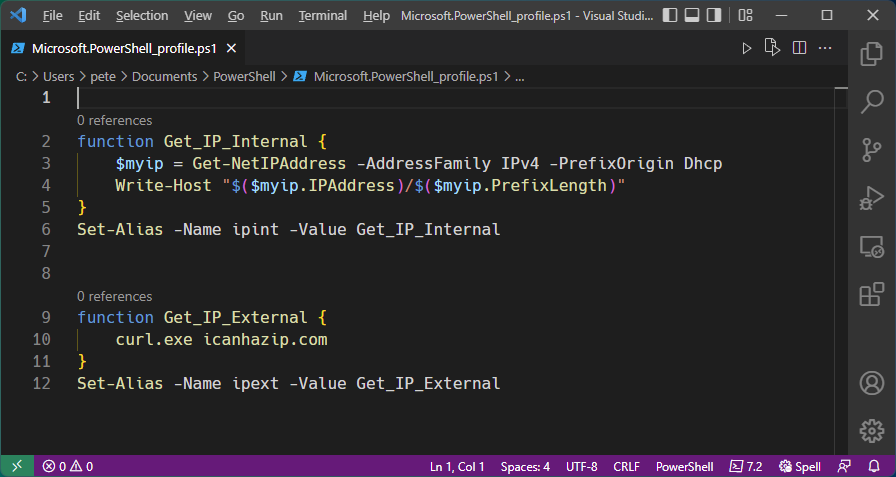
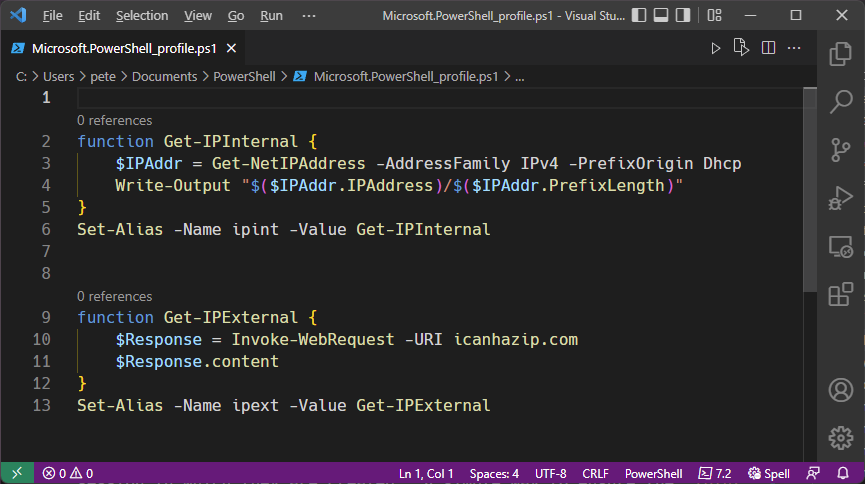
Alias blog - improved PowerShell

diff --git a/public/posts/alias-ipaddress/index.html b/public/posts/alias-ipaddress/index.html
@@ -112,7 +112,7 @@
     },
     "headline": "Use An Alias To Quickly Find Your IP Address - Windows \u0026 Linux | upyesp","datePublished": "2022-03-31T11:37:01+00:00",
     "dateModified": "2022-03-31T11:37:01+00:00",
-    "wordCount":  1110 ,
+    "wordCount":  1122 ,
     "publisher": {
         "@type": "Person",
         "name": "upyesp",
@@ -276,7 +276,7 @@
         <div class="content">
             <p>Here&rsquo;s how to create Alias commands to simplify tasks on the command line.  The examples given relate to retrieving IP addresses.  The process is shown for Linux using Bash and Windows using PowerShell.</p>
 <p><img src="/images/AliasIP.png" alt="screenshot of a terminal running Linux with the Bash shell.  The user has entered the command &amp;ldquo;ipext&amp;rdquo; and the external IP address has been returned" title="Using an Alias to return the external IP address"></p>
-<h2 id="definitions---internal--external-ip-address">Definitions - Internal &amp; External IP Address</h2>
+<h2 id="definitions---internal--external-ip-addresses">Definitions - &ldquo;Internal&rdquo; &amp; &ldquo;External&rdquo; IP Addresses</h2>
 <p>Your computer has an IP address on the LAN it is connected to. This blog post will refer to that address as the <em>internal IP address</em>, typical examples being&hellip; <code>192.168.1.12/24</code> at home or <code>10.23.8.7/20</code> on a corporate network.</p>
 <p>Your computer also has an IP address as seen by devices from external to the LAN, for example by servers on the internet.  This blog post will refer to that address as the <em>external IP address</em>, for example <code>123.44.23.87</code>. If you open a browser and Google &ldquo;whats my ip&rdquo;, you will find yours.</p>
 <p><a href="#windows">Jump to Windows Method</a></p>
@@ -312,7 +312,7 @@
 <p>In order to find the external IP address, a service beyond the LAN needs to be called, such as a server on the internet. Many services exist, this example uses <code>icanhazip.com</code>.  This can be changed to your own preferred service.</p>
 <div class="highlight"><pre tabindex="0" style="color:#93a1a1;background-color:#002b36;-moz-tab-size:4;-o-tab-size:4;tab-size:4;"><code class="language-zsh" data-lang="zsh"><span style="display:flex;"><span>curl icanhazip.com
 </span></span></code></pre></div><h3 id="creating-aliases-for-the-bash-commands">Creating Aliases For The Bash Commands</h3>
-<p>When creating an Alias for the above commands certain characters, such as <code>&quot;</code> and <code>$</code> must be be escaped for the command string to be parsed successfully. This can be achieved by inserting a <code>\</code> character before them. So the Alias commands are:</p>
+<p>When creating an Alias for the above commands certain characters, such as embedded <code>&quot;</code> and <code>$</code> must be be escaped for the <code>Alias</code> command string to be parsed successfully. This can be achieved by inserting a <code>\</code> character before, to escape them. So the Alias commands are:</p>
 <div class="highlight"><pre tabindex="0" style="color:#93a1a1;background-color:#002b36;-moz-tab-size:4;-o-tab-size:4;tab-size:4;"><code class="language-zsh" data-lang="zsh"><span style="display:flex;"><span><span style="color:#586e75">#this version returns the address + CIDR/subnet suffix e.g. xxx.xxx.xxx.xxx/xx</span>
 </span></span><span style="display:flex;"><span><span style="color:#b58900">alias</span> <span style="color:#268bd2">ipint</span><span style="color:#719e07">=</span><span style="color:#2aa198">&#34;ip addr | awk &#39;\$1==\&#34;inet\&#34; &amp;&amp; \$3!=\&#34;scope\&#34; {print \$2}&#39; &#34;</span>
 </span></span><span style="display:flex;"><span><span style="color:#586e75">#this version returns the address only e.g. xxx.xxx.xxx.xxx</span>
@@ -341,17 +341,18 @@
 <li>Done! You can now use the newly created aliases <code>ipint</code> and <code>ipext</code> to return IP addresses in a PowerShell terminal session.</li>
 </ol>
 </blockquote>
-<div class="highlight"><pre tabindex="0" style="color:#93a1a1;background-color:#002b36;-moz-tab-size:4;-o-tab-size:4;tab-size:4;"><code class="language-powershell" data-lang="powershell"><span style="display:flex;"><span><span style="color:#719e07">function</span> Get_IP_Internal { 
-</span></span><span style="display:flex;"><span>    <span style="color:#268bd2">$myip</span> = <span style="color:#b58900">Get-NetIPAddress</span> -AddressFamily IPv4 -PrefixOrigin Dhcp
-</span></span><span style="display:flex;"><span>    <span style="color:#b58900">Write-Host</span> <span style="color:#2aa198">&#34;</span>$(<span style="color:#268bd2">$myip</span>.IPAddress)<span style="color:#2aa198">/</span>$(<span style="color:#268bd2">$myip</span>.PrefixLength)<span style="color:#2aa198">&#34;</span>
+<div class="highlight"><pre tabindex="0" style="color:#93a1a1;background-color:#002b36;-moz-tab-size:4;-o-tab-size:4;tab-size:4;"><code class="language-powershell" data-lang="powershell"><span style="display:flex;"><span><span style="color:#719e07">function</span> <span style="color:#b58900">Get-IPInternal</span> { 
+</span></span><span style="display:flex;"><span>    <span style="color:#268bd2">$IPAddr</span> = <span style="color:#b58900">Get-NetIPAddress</span> -AddressFamily IPv4 -PrefixOrigin Dhcp
+</span></span><span style="display:flex;"><span>    <span style="color:#b58900">Write-Output</span> <span style="color:#2aa198">&#34;</span>$(<span style="color:#268bd2">$IPAddr</span>.IPAddress)<span style="color:#2aa198">/</span>$(<span style="color:#268bd2">$IPAddr</span>.PrefixLength)<span style="color:#2aa198">&#34;</span>
 </span></span><span style="display:flex;"><span>}
-</span></span><span style="display:flex;"><span><span style="color:#b58900">Set-Alias</span> -Name ipint -Value Get_IP_Internal
+</span></span><span style="display:flex;"><span><span style="color:#b58900">Set-Alias</span> -Name ipint -Value <span style="color:#b58900">Get-IPInternal</span>
 </span></span><span style="display:flex;"><span>
 </span></span><span style="display:flex;"><span>
-</span></span><span style="display:flex;"><span><span style="color:#719e07">function</span> Get_IP_External {
-</span></span><span style="display:flex;"><span>    curl.exe icanhazip.com
+</span></span><span style="display:flex;"><span><span style="color:#719e07">function</span> <span style="color:#b58900">Get-IPExternal</span> {
+</span></span><span style="display:flex;"><span>    <span style="color:#268bd2">$Response</span> = <span style="color:#b58900">Invoke-WebRequest</span> -URI icanhazip.com
+</span></span><span style="display:flex;"><span>    <span style="color:#268bd2">$Response</span>.content
 </span></span><span style="display:flex;"><span>}
-</span></span><span style="display:flex;"><span><span style="color:#b58900">Set-Alias</span> -Name ipext -Value Get_IP_External
+</span></span><span style="display:flex;"><span><span style="color:#b58900">Set-Alias</span> -Name ipext -Value <span style="color:#b58900">Get-IPExternal</span>
 </span></span></code></pre></div><h3 id="how-to-retrieve-ip-addresses-using-powershell">How To Retrieve IP Addresses Using PowerShell</h3>
 <h4 id="aliases--functions">Aliases &amp; Functions</h4>
 <p>So far this blog post has talked about Aliases.  These are supported in PowerShell, though they are implemented differently than Linux.  There is a restriction regarding <a href="https://docs.microsoft.com/en-us/powershell/module/microsoft.powershell.utility/set-alias?view=powershell-7.2">Alias parameters and passing values</a> - see &ldquo;Example 5&rdquo;. As shown in that example, this can be easily overcome by creating a <a href="https://docs.microsoft.com/en-us/powershell/scripting/learn/ps101/09-functions?view=powershell-7.2">Function</a> and setting an Alias to it.</p>
@@ -371,17 +372,18 @@
 </span></span><span style="display:flex;"><span>
 </span></span><span style="display:flex;"><span>(<span style="color:#b58900">Get-NetIPAddress</span> -AddressFamily IPv4 -PrefixOrigin Dhcp | <span style="color:#b58900">Format-Wide</span> -Property IPAddress | <span style="color:#b58900">Out-String</span>).Trim()
 </span></span></code></pre></div><p>This is the version I settled on.  It provides the IPv4 address, along with the CIDR suffix.  Also, the output exactly matches the Linux version above.</p>
-<div class="highlight"><pre tabindex="0" style="color:#93a1a1;background-color:#002b36;-moz-tab-size:4;-o-tab-size:4;tab-size:4;"><code class="language-powershell" data-lang="powershell"><span style="display:flex;"><span><span style="color:#719e07">function</span> Get_IP_Internal { 
-</span></span><span style="display:flex;"><span>    <span style="color:#268bd2">$myip</span> = <span style="color:#b58900">Get-NetIPAddress</span> -AddressFamily IPv4 -PrefixOrigin Dhcp
-</span></span><span style="display:flex;"><span>    <span style="color:#b58900">Write-Host</span> <span style="color:#2aa198">&#34;</span>$(<span style="color:#268bd2">$myip</span>.IPAddress)<span style="color:#2aa198">/</span>$(<span style="color:#268bd2">$myip</span>.PrefixLength)<span style="color:#2aa198">&#34;</span>
+<div class="highlight"><pre tabindex="0" style="color:#93a1a1;background-color:#002b36;-moz-tab-size:4;-o-tab-size:4;tab-size:4;"><code class="language-powershell" data-lang="powershell"><span style="display:flex;"><span><span style="color:#719e07">function</span> <span style="color:#b58900">Get-IPInternal</span> { 
+</span></span><span style="display:flex;"><span>    <span style="color:#268bd2">$IPAddr</span> = <span style="color:#b58900">Get-NetIPAddress</span> -AddressFamily IPv4 -PrefixOrigin Dhcp
+</span></span><span style="display:flex;"><span>    <span style="color:#b58900">Write-Output</span> <span style="color:#2aa198">&#34;</span>$(<span style="color:#268bd2">$IPAddr</span>.IPAddress)<span style="color:#2aa198">/</span>$(<span style="color:#268bd2">$IPAddr</span>.PrefixLength)<span style="color:#2aa198">&#34;</span>
 </span></span><span style="display:flex;"><span>}
-</span></span><span style="display:flex;"><span><span style="color:#b58900">Set-Alias</span> -Name ipint -Value Get_IP_Internal
+</span></span><span style="display:flex;"><span><span style="color:#b58900">Set-Alias</span> -Name ipint -Value <span style="color:#b58900">Get-IPInternal</span>
 </span></span></code></pre></div><h4 id="external-ip-address">External IP Address</h4>
 <p>As with Linux, in order to find the external IP address, a service beyond the LAN needs to be called, such as a server on the internet. Many services exist, this example uses <code>icanhazip.com</code>.  This can be changed to your own preferred service.</p>
-<div class="highlight"><pre tabindex="0" style="color:#93a1a1;background-color:#002b36;-moz-tab-size:4;-o-tab-size:4;tab-size:4;"><code class="language-powershell" data-lang="powershell"><span style="display:flex;"><span><span style="color:#719e07">function</span> Get_IP_External {
-</span></span><span style="display:flex;"><span>    curl.exe icanhazip.com
+<div class="highlight"><pre tabindex="0" style="color:#93a1a1;background-color:#002b36;-moz-tab-size:4;-o-tab-size:4;tab-size:4;"><code class="language-powershell" data-lang="powershell"><span style="display:flex;"><span><span style="color:#719e07">function</span> <span style="color:#b58900">Get-IPExternal</span> {
+</span></span><span style="display:flex;"><span>    <span style="color:#268bd2">$Response</span> = <span style="color:#b58900">Invoke-WebRequest</span> -URI icanhazip.com
+</span></span><span style="display:flex;"><span>    <span style="color:#268bd2">$Response</span>.content
 </span></span><span style="display:flex;"><span>}
-</span></span><span style="display:flex;"><span><span style="color:#b58900">Set-Alias</span> -Name ipext -Value Get_IP_External
+</span></span><span style="display:flex;"><span><span style="color:#b58900">Set-Alias</span> -Name ipext -Value <span style="color:#b58900">Get-IPExternal</span>
 </span></span></code></pre></div><h3 id="adding-aliases-to-the-profile-file">Adding Aliases To The $PROFILE File</h3>
 <p>As with Linux, Aliases in PowerShell typically only exist in the session in which they are created.  A simple way to ensure the <code>ipint</code> and <code>ipext</code> persist in PowerShell sessions is to add their definition to the $PROFILE file.  This can be edited with an editor, such as <code>notepad</code> or <code>VS Code</code>, like this:</p>
 <div class="highlight"><pre tabindex="0" style="color:#93a1a1;background-color:#002b36;-moz-tab-size:4;-o-tab-size:4;tab-size:4;"><code class="language-powershell" data-lang="powershell"><span style="display:flex;"><span>notepad <span style="color:#268bd2">$PROFILE</span>
@@ -436,7 +438,7 @@
 <div class="sticky-toc hidden lg:block px-6 pb-6 ">
     <nav id="TableOfContents">
   <ul>
-    <li><a href="#definitions---internal--external-ip-address">Definitions - Internal &amp; External IP Address</a></li>
+    <li><a href="#definitions---internal--external-ip-addresses">Definitions - &ldquo;Internal&rdquo; &amp; &ldquo;External&rdquo; IP Addresses</a></li>
     <li><a href="#linux">Linux: Creating Aliases In Bash To Return The Internal &amp; External IP Address</a>
       <ul>
         <li><a href="#how-to-retrieve-ip-addresses-using-bash">How To Retrieve IP Addresses Using Bash</a>

diff --git a/content/posts/alias-ipaddress.md b/content/posts/alias-ipaddress.md
@@ -15,7 +15,7 @@ Here's how to create Alias commands to simplify tasks on the command line.  The 
 
 ![screenshot of a terminal running Linux with the Bash shell.  The user has entered the command "ipext" and the external IP address has been returned](/images/AliasIP.png "Using an Alias to return the external IP address")
 
-## Definitions - Internal & External IP Address
+## Definitions - "Internal" & "External" IP Addresses
 
 Your computer has an IP address on the LAN it is connected to. This blog post will refer to that address as the _internal IP address_, typical examples being... `192.168.1.12/24` at home or `10.23.8.7/20` on a corporate network.
 
@@ -69,7 +69,7 @@ curl icanhazip.com
 
 ### Creating Aliases For The Bash Commands
 
-When creating an Alias for the above commands certain characters, such as `"` and `$` must be be escaped for the command string to be parsed successfully. This can be achieved by inserting a `\` character before them. So the Alias commands are:
+When creating an Alias for the above commands certain characters, such as embedded `"` and `$` must be be escaped for the `Alias` command string to be parsed successfully. This can be achieved by inserting a `\` character before, to escape them. So the Alias commands are:
 
 ```zsh
 #this version returns the address + CIDR/subnet suffix e.g. xxx.xxx.xxx.xxx/xx
@@ -112,17 +112,18 @@ That's it, done.  Use the newly created aliases `ipint` and `ipext` to return IP
 > 1. Done! You can now use the newly created aliases `ipint` and `ipext` to return IP addresses in a PowerShell terminal session.
 
 ```powershell
-function Get_IP_Internal { 
-    $myip = Get-NetIPAddress -AddressFamily IPv4 -PrefixOrigin Dhcp
-    Write-Host "$($myip.IPAddress)/$($myip.PrefixLength)"
+function Get-IPInternal { 
+    $IPAddr = Get-NetIPAddress -AddressFamily IPv4 -PrefixOrigin Dhcp
+    Write-Output "$($IPAddr.IPAddress)/$($IPAddr.PrefixLength)"
 }
-Set-Alias -Name ipint -Value Get_IP_Internal
+Set-Alias -Name ipint -Value Get-IPInternal
 
 
-function Get_IP_External {
-    curl.exe icanhazip.com
+function Get-IPExternal {
+    $Response = Invoke-WebRequest -URI icanhazip.com
+    $Response.content
 }
-Set-Alias -Name ipext -Value Get_IP_External
+Set-Alias -Name ipext -Value Get-IPExternal
 ```
 
 ### How To Retrieve IP Addresses Using PowerShell
@@ -154,11 +155,11 @@ Get-NetIPAddress -AddressFamily IPv4 -PrefixOrigin Dhcp | Format-Wide -Property 
 This is the version I settled on.  It provides the IPv4 address, along with the CIDR suffix.  Also, the output exactly matches the Linux version above.
 
 ```powershell
-function Get_IP_Internal { 
-    $myip = Get-NetIPAddress -AddressFamily IPv4 -PrefixOrigin Dhcp
-    Write-Host "$($myip.IPAddress)/$($myip.PrefixLength)"
+function Get-IPInternal { 
+    $IPAddr = Get-NetIPAddress -AddressFamily IPv4 -PrefixOrigin Dhcp
+    Write-Output "$($IPAddr.IPAddress)/$($IPAddr.PrefixLength)"
 }
-Set-Alias -Name ipint -Value Get_IP_Internal
+Set-Alias -Name ipint -Value Get-IPInternal
 ```
 
 
@@ -167,10 +168,11 @@ Set-Alias -Name ipint -Value Get_IP_Internal
 As with Linux, in order to find the external IP address, a service beyond the LAN needs to be called, such as a server on the internet. Many services exist, this example uses `icanhazip.com`.  This can be changed to your own preferred service.
 
 ```powershell
-function Get_IP_External {
-    curl.exe icanhazip.com
+function Get-IPExternal {
+    $Response = Invoke-WebRequest -URI icanhazip.com
+    $Response.content
 }
-Set-Alias -Name ipext -Value Get_IP_External
+Set-Alias -Name ipext -Value Get-IPExternal
 ```
 
 ### Adding Aliases To The $PROFILE File
